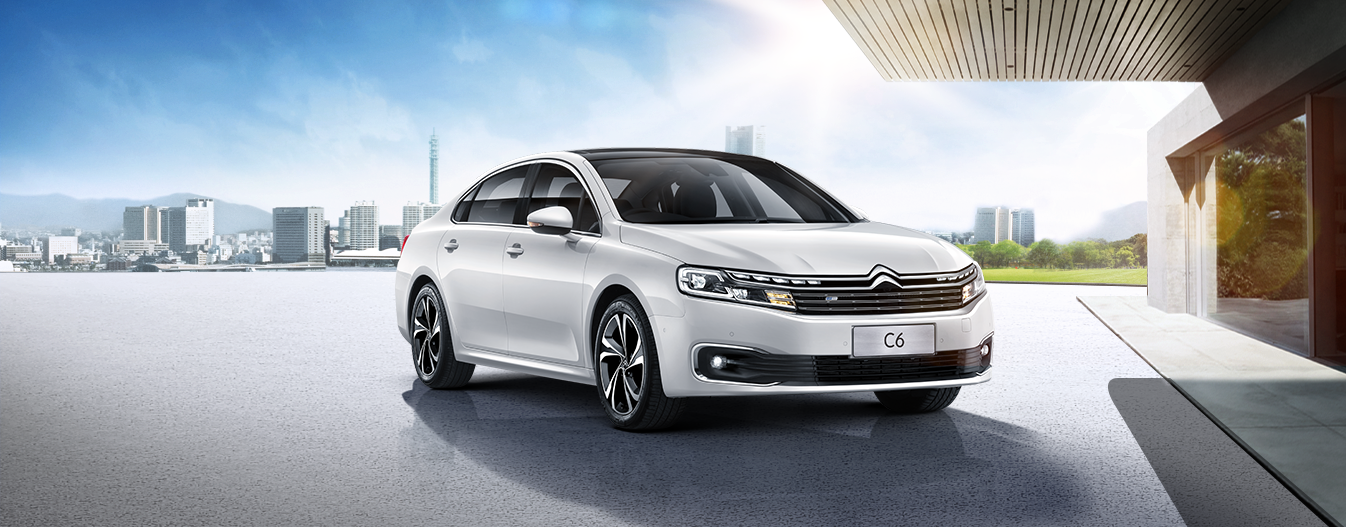
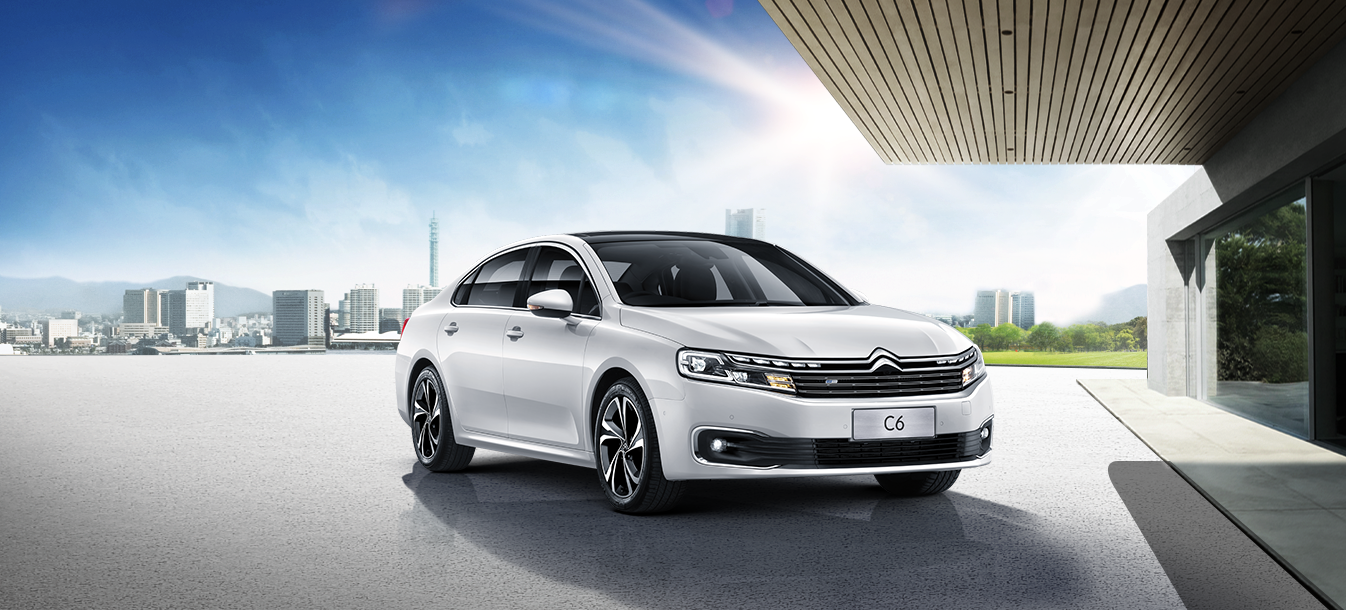
'自适应图片不变型问题'

diff --git a/css/index.css b/css/index.css
@@ -4,10 +4,12 @@ html{
 }
 body{
     width: 100%;
+    min-width: 1366px;
     height: 100%;
     overflow: hidden;
     display: flex;
     flex-direction: column;
+    overflow-x: auto;
 }
 /* 公共样式 */
 .home,.comfortable,.history-swiper,.concept,.drive,.seat,.video,.signup,.price{
@@ -141,7 +143,7 @@ header{
 /* 首页 */
 .home{
     background: url(../img/home-bg.png) no-repeat;
-    background-size: 100% 104%;
+    background-size: cover;
 }
 .home-title{
     position: absolute;
@@ -174,7 +176,6 @@ header{
 .comfortable{
     font-size: 0;
     width: 100%;
-    height: 100%;
     background: url(../img/comfortable-bg.png)no-repeat;
     background-size: 100% 100%;
 }
@@ -226,7 +227,7 @@ header{
 }
 .history-swiper{
     background: url(../img/history-bg.png)no-repeat;
-    background-size: 100% 100%;
+    background-size: cover;
 }
 .history-page1,.history-page2,.history-page3,.history-page4,.history-page5,.history-page6,.history-page1-text,.history-page2-text,.history-page3-text,.history-page4-text,.history-page5-text,.history-page6-text{
     width: 100%;
@@ -317,7 +318,7 @@ header{
 /* 观享其悦 */
 .concept{
     background: url(../img/concept-bg.png)no-repeat;
-    background-size: 100% 100%;
+    background-size: cover;
 }
 /* 观享、驾享、座享动画 */
 .concept-title,.drive-title,.seat-title{
@@ -335,12 +336,12 @@ header{
 }
 .concept-detailed{
     position: absolute;
-    top:12.72%;
+    top:22.72%;
     left:22.06%;
     width: 56.46%;
     height: 67.19%;
     background: url(../img/concept-detailed-bg.png)no-repeat;
-    background-size: 100% 100%;
+    background-size: 100%;
     transition: all 0.8s;
     opacity: 0;
 }
@@ -396,7 +397,7 @@ header{
 /* 驾享齐趣 */
 .drive{
     background: url(../img/drive-bg.png)no-repeat;
-    background-size: 100% 100%;
+    background-size: cover;
 }
 .drive-title{
     background: url(../img/drive-title.png)no-repeat;
@@ -406,7 +407,7 @@ header{
 /* 座享其适 */
 .seat{
     background: url(../img/seat-bg.png)no-repeat;
-    background-size: 100% 100%;
+    background-size: cover;
 }
 
 .seat-title{
@@ -421,7 +422,7 @@ header{
 /* 精彩赏鉴 */
 .video{
     background: url(../img/video-bg.png)no-repeat;
-    background-size: 100% 100%;
+    background-size: cover;
 }
 .video-title{
     position: absolute;
@@ -451,7 +452,7 @@ header{
 /* 配置价格 */
 .price{
     background: url(../img/price-bg.png)no-repeat;
-    background-size: 100% 100%;
+    background-size: cover;
 }
 .price-title{
     width: 12.48%;
@@ -543,7 +544,7 @@ header{
 .signup{
     font-size: 0;
     background:url(../img/signup-bg.png)no-repeat;
-    background-size: 100% 108%;
+    background-size: cover;
 }
 /* 报名试驾动画 */
 .signup-title{
